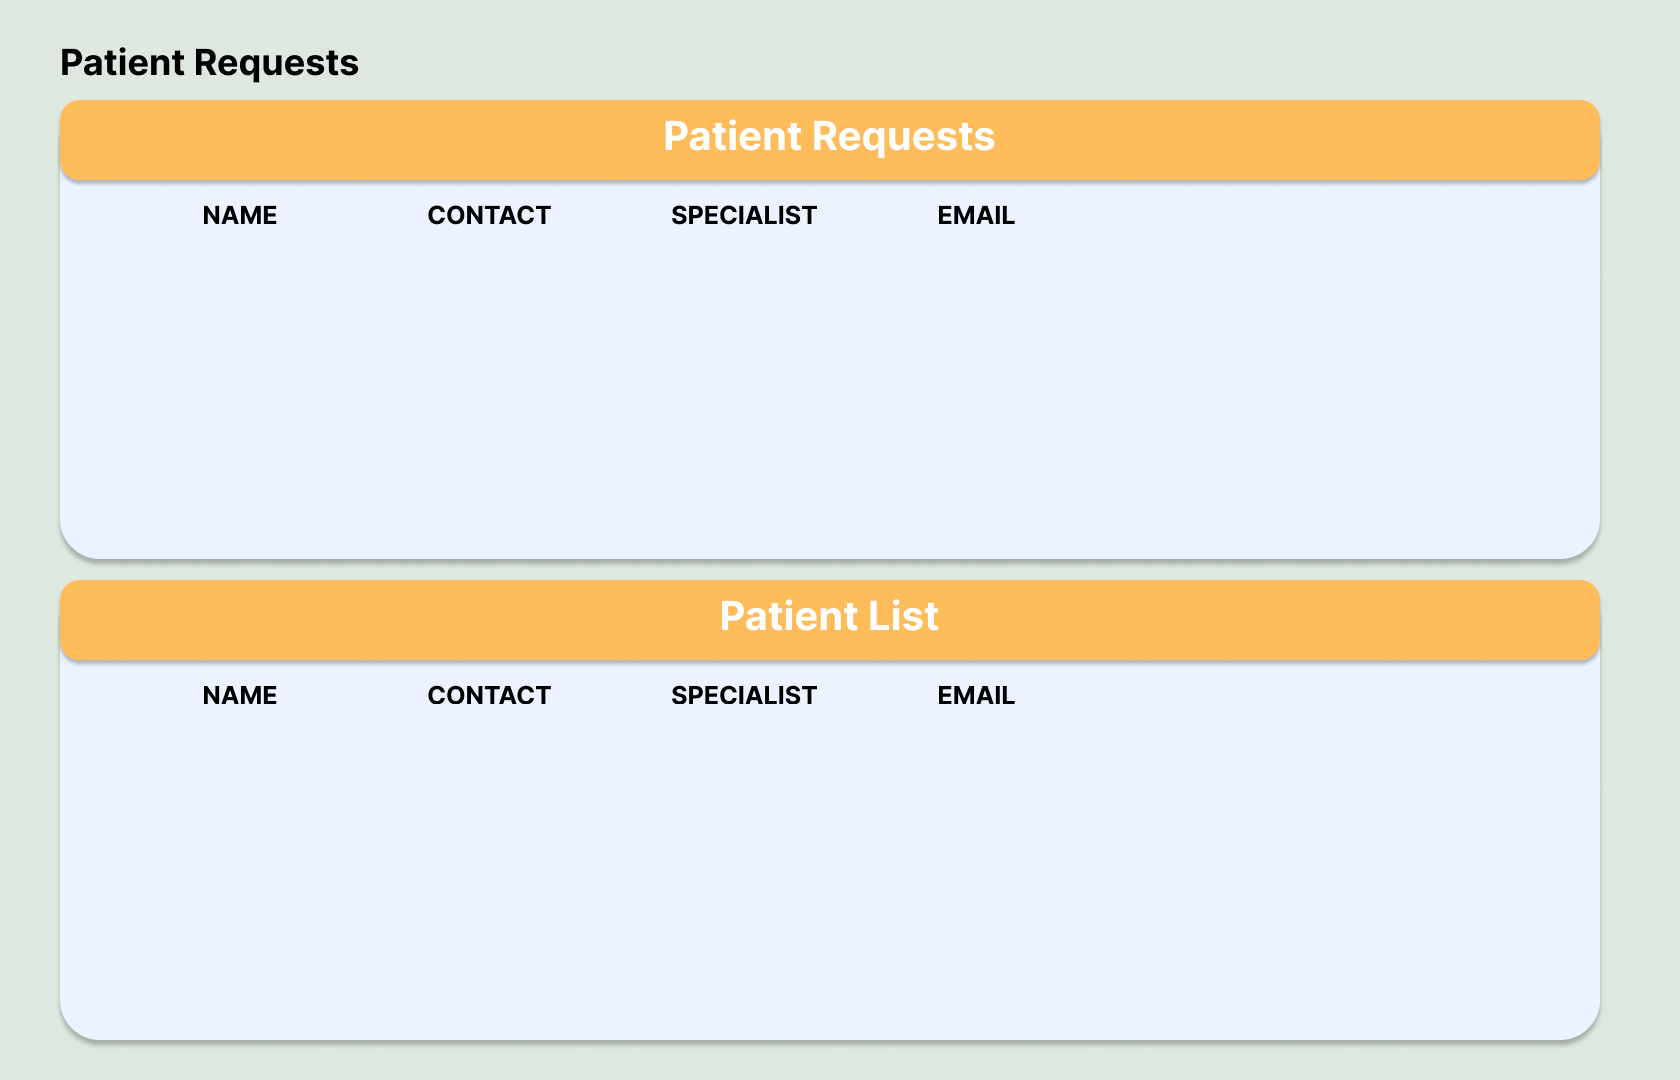
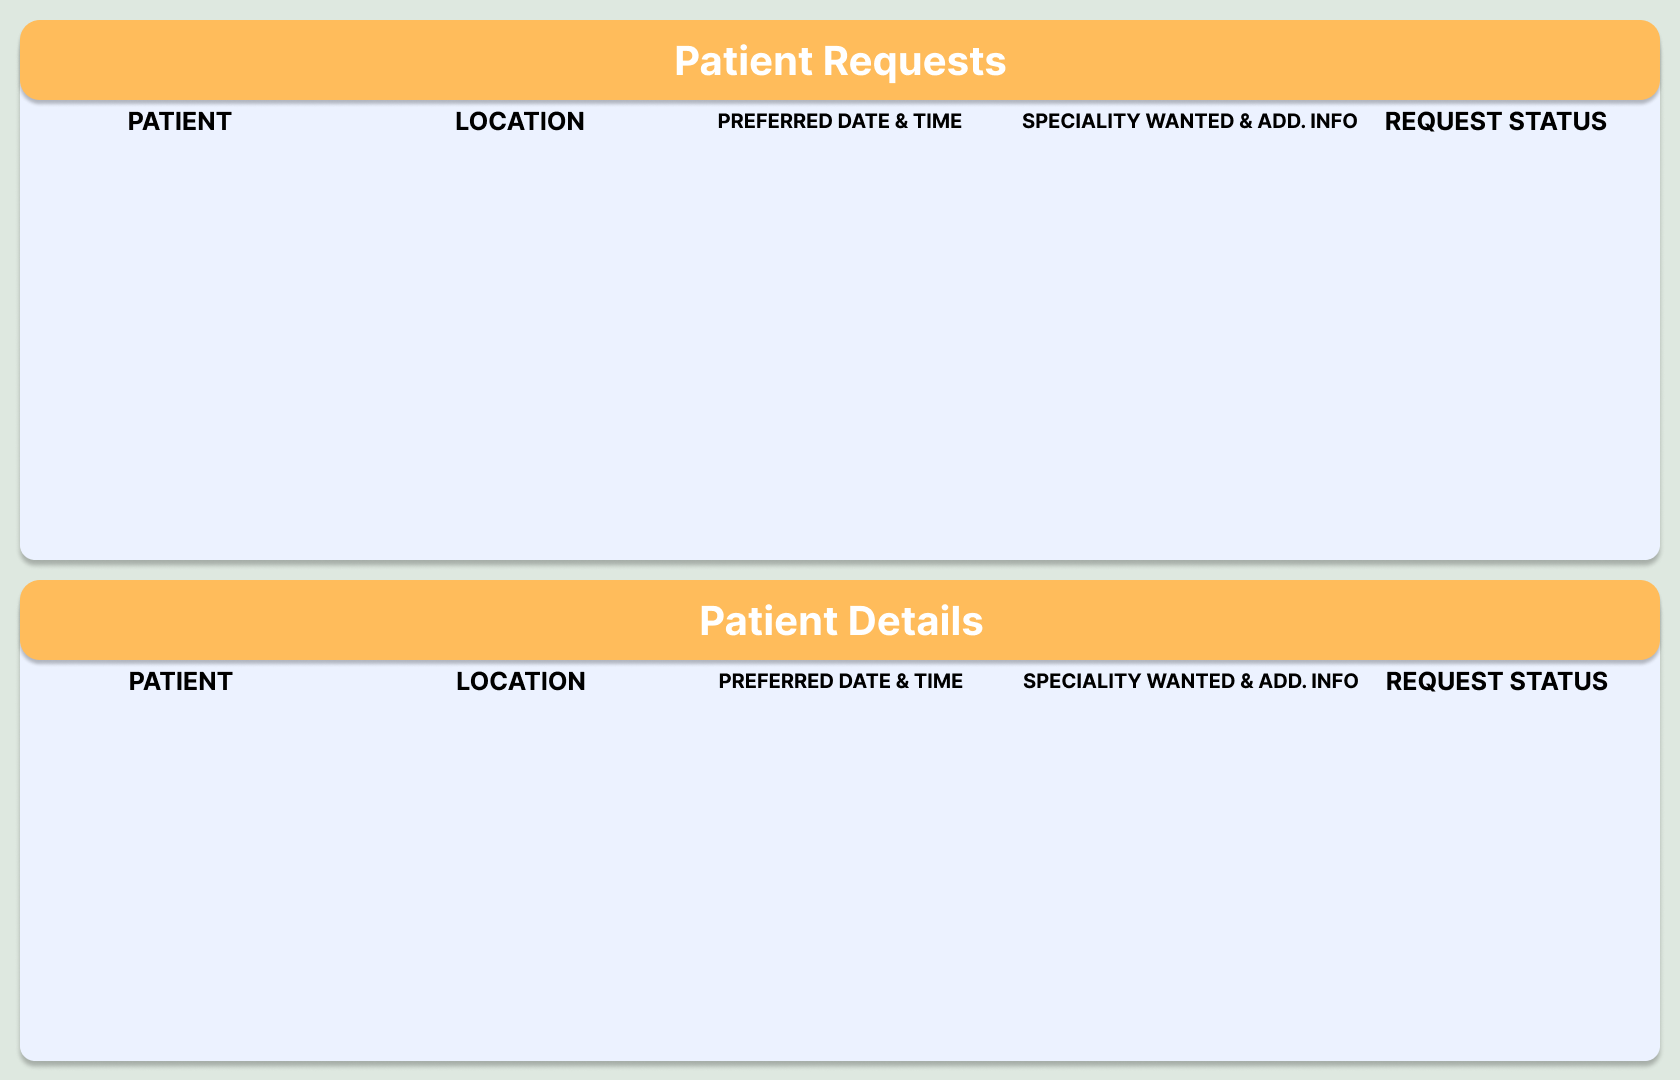
updated some params, added skeleton patient requests

Changed region(s): [[0.0, 0.0, 0.9905, 1.0], [0.2476, 0.6111, 0.3405, 0.6722]]

diff --git a/views/patientRequests/adminManageRequests.py b/views/patientRequests/adminManageRequests.py
@@ -55,8 +55,9 @@ class AdminManagePatientRequests(Frame):
             master=self, width=1500, height=h, autohide=True, bootstyle="officer-bg"
         )
         self.viewAppointmentScrolledFrame.grid_propagate(False)
-        self.viewAppointmentScrolledFrame.place(x=60, y=240, width=1540, height=290)
-        initialcoordinates = (20,20)
+        self.viewAppointmentScrolledFrame.place(
+            x=60, y=240, width=1540, height=290)
+        initialcoordinates = (20, 20)
         for request in exampleList:
             X = initialcoordinates[0]
             Y = initialcoordinates[1]
@@ -65,7 +66,7 @@ class AdminManagePatientRequests(Frame):
                 classname=f"request{request}", root=self.viewAppointmentScrolledFrame,
                 text=request, size=30, font=INTER,
                 isPlaced=True,
-            )   
+            )
 
         d = {
             "requestButton": [
@@ -76,69 +77,109 @@ class AdminManagePatientRequests(Frame):
         self.acceptbutton = self.controller.buttonCreator(
             ipath=d["requestButton"][0],
             x=X+1060, y=Y+30, classname=f"acceptbutton{request}", root=self.viewAppointmentScrolledFrame,
-                buttonFunction=lambda: [print('accept')],
-                isPlaced=True
+            buttonFunction=lambda: [print('accept')],
+            isPlaced=True
         )
         self.rejectbutton = self.controller.buttonCreator(
             ipath=d["requestButton"][1],
             x=X+1260, y=Y+30, classname=f"rejectbutton{request}", root=self.viewAppointmentScrolledFrame,
-                buttonFunction=lambda: [print('reject')],
-                isPlaced=True
+            buttonFunction=lambda: [print('reject')],
+            isPlaced=True
         )
 
         initialcoordinates = (
-                initialcoordinates[0], initialcoordinates[1] + 120
-            )
-        
+            initialcoordinates[0], initialcoordinates[1] + 120
+        )
+
     def createPatientList(self):
         prisma = self.prisma
-        patients = prisma.patient.find_many(
+        appRequests = prisma.appointmentrequest.find_many(
+            where={
+                "clinic": {
+                    "is": {
+                        "admin": {
+                            "some": {
+                                "userId": self.user.id
+                            }
+                        }
+                    }
+                }
+            },
             include={
-                "user": True,
+                "patient": {
+                    "include": {
+                        "healthRecord": True,
+                        "user": True
+                    }
+                },
+                "clinic": True
             }
         )
-        h = len(patients) * 120
-        if h < 290:
-            h = 290
-        self.patientScrolledFrame = ScrolledFrame(
-            master=self, width=1540, height=h, autohide=True, bootstyle="minty-bg"
+        h = len(appRequests) * 140
+        if h < 400:
+            h = 400
+        self.patientRequestScrolledFrame = ScrolledFrame(
+            master=self, width=1640, height=h, autohide=True, bootstyle="bg-rounded"
         )
-        self.patientScrolledFrame.grid_propagate(False)
-        self.patientScrolledFrame.place(x=60, y=710, width=1540, height=290)
-        COORDS = (20,20)
-        for patient in patients:
-            patient.user.fullName
+        self.patientRequestScrolledFrame.place(
+            x=20, y=140, width=1640, height=400)
+        COORDS = (20, 0)
+        for req in appRequests:
+            patient = req.patient
             X = COORDS[0]
             Y = COORDS[1]
-            R = self.patientScrolledFrame
+            R = self.patientRequestScrolledFrame
             FONT = ("Inter", 12)
             self.controller.labelCreator(
-                ipath="assets/Dashboard/ClinicAdminAssets/ScrollFrame/scrollbutton.png", 
+                ipath="assets/Dashboard/ClinicAdminAssets/PatientRequests/SinglePatientRequestBG.png",
                 x=X, y=Y, classname=f"patientlist{patient.id}", root=R,
-                isPlaced=True,  
+                isPlaced=True,
             )
             patientName = self.controller.scrolledTextCreator(
-                x = X+50, y=Y+35, width=200, height=60, root=R, classname = f"{patient.id}_name",
+                x=X+20, y=Y+20, width=180, height=80, root=R, classname=f"{patient.id}_name",
                 bg="#f1feff", hasBorder=False,
                 text=patient.user.fullName, font=FONT, fg=BLACK,
-                isDisabled=True, isJustified="center",
+                isDisabled=True, isJustified=True, justification="center",
                 hasVbar=False
             )
-            patientUserID = self.controller.scrolledTextCreator(
-                x=X+300, y=Y+35, width=200, height=65, root=R, classname = f"{patient.id}_userId",
-                bg="#f1feff", hasBorder=False,
-                text=patient.userId, font=FONT, fg=BLACK,
-                isDisabled=True, isJustified="center",
-                hasVbar=False                           
+            patientHealthRecord = self.controller.buttonCreator(
+                ipath="assets/Dashboard/ClinicAdminAssets/PatientRequests/HealthRecordButton.png",
+                x=X+220, y=Y+20, classname=f"healthrecord{patient.id}", root=R,
+                buttonFunction=lambda hr=patient.healthRecord: [
+                    print(hr)
+                    # self.loadHealthRecord(hr)
+                ],
+                isPlaced=True
             )
-            patientHealthRecord = self.controller.scrolledTextCreator(
-                x=X+580, y=Y+25, width=200, height=60, root=R, classname = f"{patient.id}_healthRecord",
-                bg="#f1feff", hasBorder=False,
-                text=patient.healthRecord, font=FONT, fg=BLACK,
-                isDisabled=True, isJustified="center",
-                hasVbar=False                           
+            remainingCoords = (360, 20)
+            formattedTime = f"Date: {req.preferredDate}\nTime: {req.preferredTime}"
+            formattedInfo = f"Speciality: {req.specialityWanted}\nAdditional Info: {req.additionalInfo}"
+            for i, t in enumerate([req.location, formattedTime, formattedInfo]):
+                REMX = remainingCoords[0]
+                REMY = remainingCoords[1]
+                self.controller.scrolledTextCreator(
+                    x=REMX, y=REMY, width=280 if i != 2 else 340,
+                    height=80, root=R, classname=f"{patient.id}_text{i}",
+                    bg="#f1feff", hasBorder=False,
+                    text=t, font=FONT, fg=BLACK,
+                    isDisabled=True, isJustified=True, justification="center",
+                    hasVbar=False
+                )
+                remainingCoords = (
+                    remainingCoords[0] + 320, remainingCoords[1]
+                )
+            self.controller.buttonCreator(
+                ipath="assets/Dashboard/ClinicAdminAssets/PatientRequests/AcceptRequest.png",
+                x=1380, y=Y+20, classname=f"accept{patient.id}", root=R,
+                buttonFunction=lambda: [self.acceptAppointment(req)],
+                isPlaced=True
+            )
+            self.controller.buttonCreator(
+                ipath="assets/Dashboard/ClinicAdminAssets/PatientRequests/RejectRequest.png",
+                x=1500, y=Y+20, classname=f"reject{patient.id}", root=R,
+                buttonFunction=lambda: [self.rejectAppointment(req)],
+                isPlaced=True
             )
             COORDS = (
-                COORDS[0], COORDS[1] + 120
+                COORDS[0], COORDS[1] + 140
             )
-            

diff --git a/views/dashboard/adminDashboard.py b/views/dashboard/adminDashboard.py
@@ -1,7 +1,7 @@
 from __future__ import annotations
 from typing import TYPE_CHECKING
 if TYPE_CHECKING:
-    from views.dashboard.adminDashboard import ClinicAdminDashboard
+    from views.mainDashboard import Dashboard
 import calendar
 import datetime as dt
 import re
@@ -28,7 +28,7 @@ from views.mainViewAppointments import MainViewAppointmentsInterface
 
 
 class ClinicAdminDashboard(Frame):
-    def __init__(self, parent: ClinicAdminDashboard = None, controller: ElementCreator = None):
+    def __init__(self, parent: Dashboard = None, controller: ElementCreator = None):
         super().__init__(parent, width=1, height=1, bg="#dee8e0", name="primarypanel")
         self.controller = controller
         self.parent = parent
